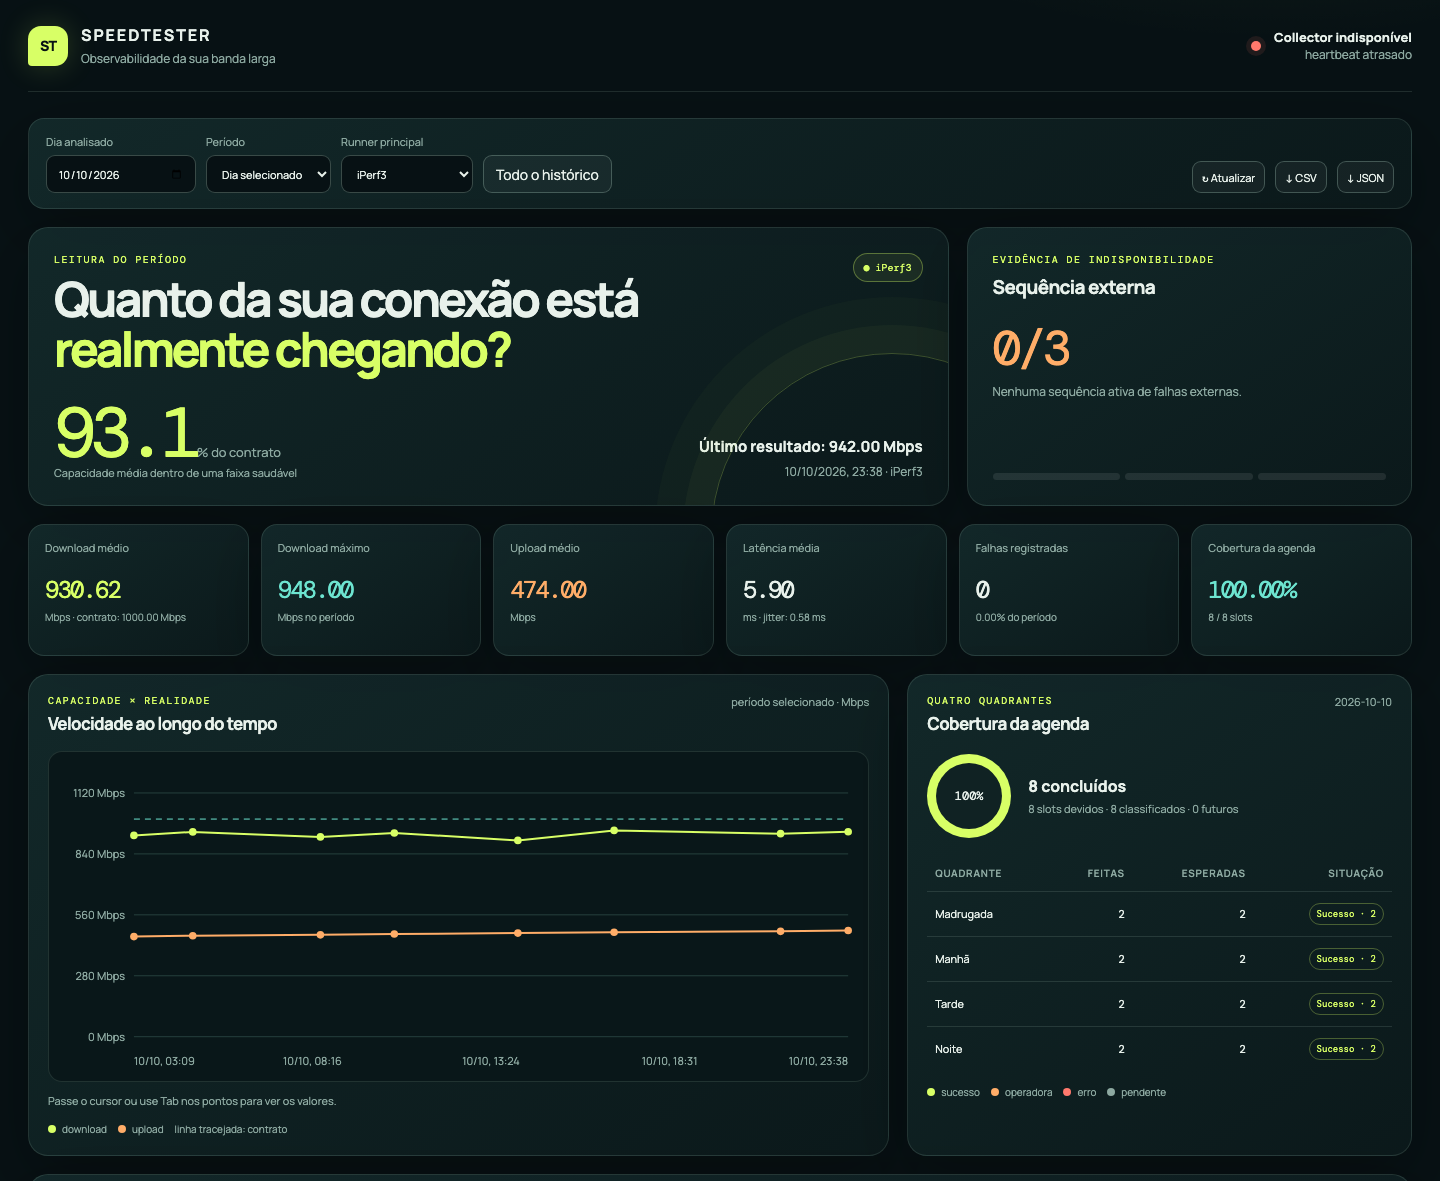
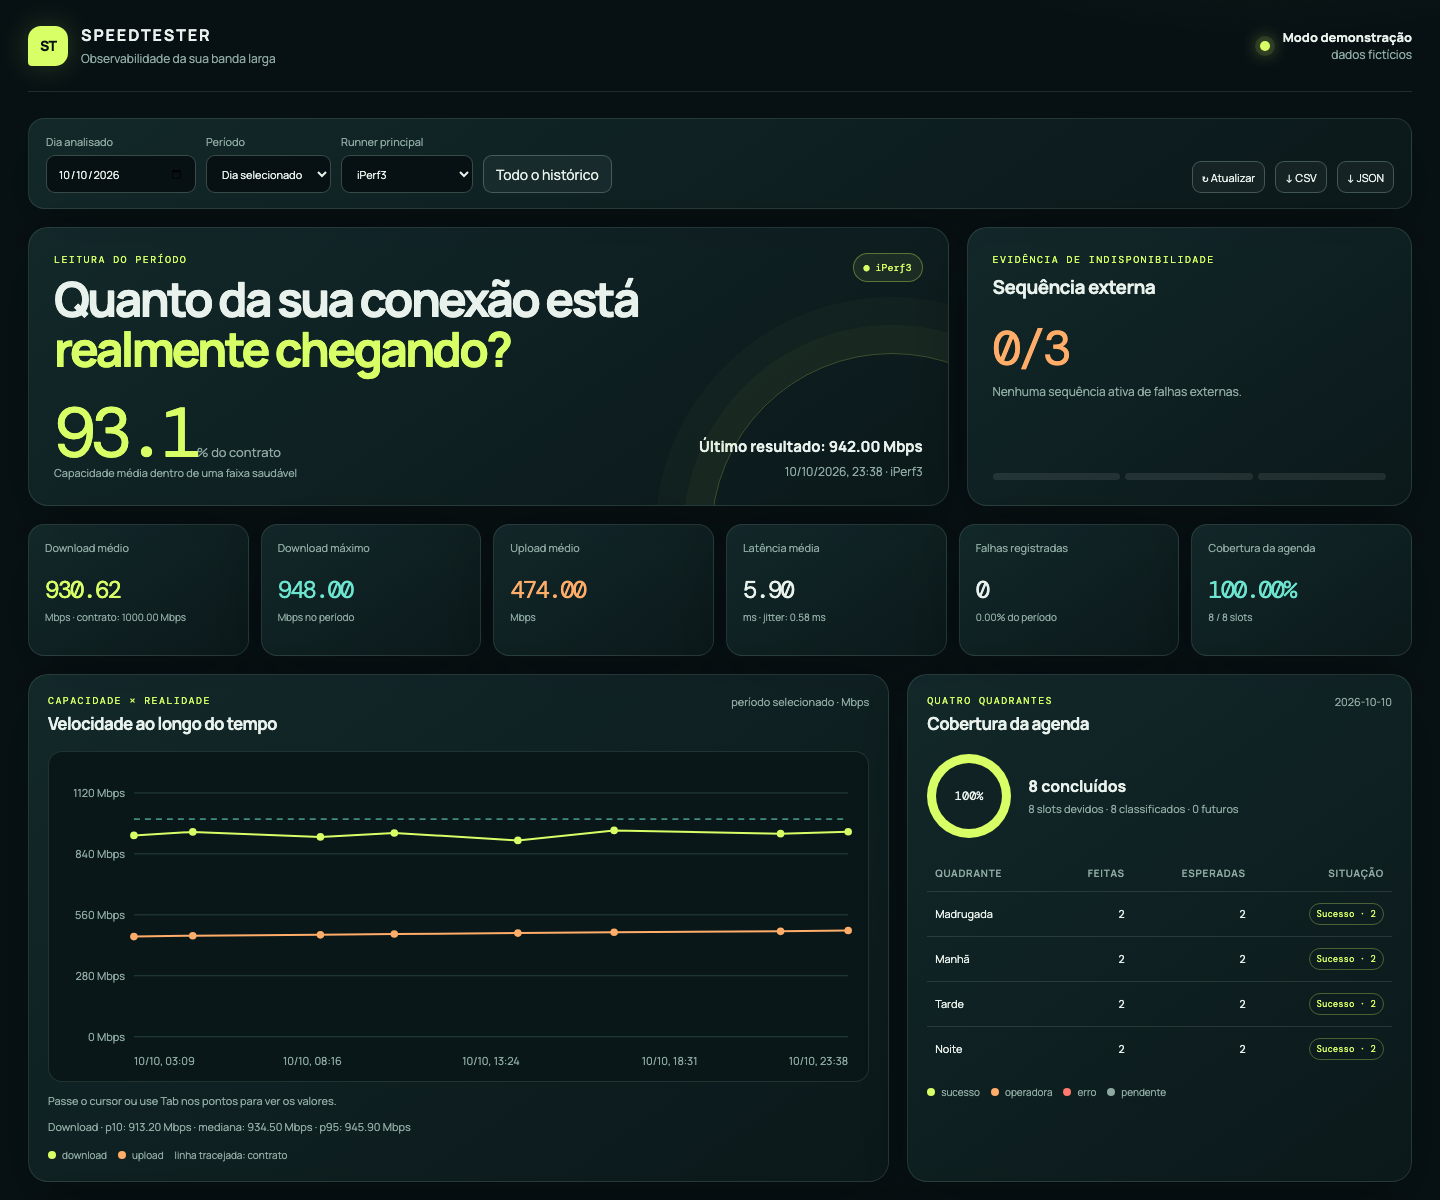
Fix initial database ownership and identify synthetic dashboard mode

diff --git a/app/dashboard/index.html b/app/dashboard/index.html
@@ -158,7 +158,7 @@
     function renderMeasurements() { const rows=visibleSamples().slice().sort((a,b)=>new Date(b.started_at)-new Date(a.started_at)); $('sampleCountNote').textContent=rows.length+' carregados · até 50 exibidos · exportação completa'; $('measurementRows').innerHTML=rows.slice(0,50).map((sample)=>{const [status,origin]=sampleStatus(sample),result=sample.is_failure?(statusLabels[status]||status)+(origin?' · '+origin:''):'Sucesso'; return '<tr><td>'+esc(localDateTime(sample.started_at))+'</td><td>'+esc(runnerLabels[sample.runner]||sample.runner||'Legado')+'</td><td>'+esc(labels[sample.quadrant]||sample.quadrant||'—')+'</td><td class="num '+(sample.is_failure?'muted':'value-lime')+'">'+fmt(sample.download_mbps,' Mbps')+'</td><td class="num '+(sample.is_failure?'muted':'value-orange')+'">'+fmt(sample.upload_mbps,' Mbps')+'</td><td class="num">'+fmt(sample.ping_ms,' ms')+'</td><td><span class="status-chip '+statusClass(status)+'">'+esc(result)+'</span></td></tr>'; }).join('')||'<tr><td colspan="7" class="empty">Nenhuma medição persistida para este filtro.</td></tr>'; }
     function renderComparison() { const days=state.comparison?.days||[], maxDownload=Math.max(...days.map((day)=>Number(day.download_avg_mbps)||0),1); $('comparisonNote').textContent=state.comparison?(state.comparison.from+' → '+state.comparison.to):'últimos 7 dias'; $('comparisonRows').innerHTML=days.map((day)=>{const width=day.download_avg_mbps==null?0:Math.min(100,Number(day.download_avg_mbps)/maxDownload*100); const coverage=day.coverage_pct==null?'—':fmt(day.coverage_pct,'%'); const delivery=day.delivery_pct==null?'sem dados':fmt(day.delivery_pct,'%'); return '<tr><td class="history-date">'+esc(day.date)+'</td><td class="value-lime">'+fmt(day.download_avg_mbps,' Mbps')+'</td><td class="history-bar-cell"><div class="history-bar-track" title="'+esc(delivery)+' do contrato"><div class="history-bar'+(day.download_avg_mbps==null?' empty':'')+'" style="width:'+width+'%"></div></div></td><td class="num">'+esc(coverage)+'</td><td class="num">'+(day.failure_count??0)+'</td></tr>'; }).join('')||'<tr><td colspan="5" class="empty">Nenhum dia no intervalo.</td></tr>'; }
     function renderAlerts() { const alerts=state.alerts||[]; $('alertsNote').textContent=alerts.length?alerts.length+' registro(s)':'sem alertas'; $('alertList').innerHTML=alerts.slice(0,20).map((alert)=>'<div class="alert-item"><span class="alert-dot '+(alert.severity==='critical'?'critical':'')+'"></span><div><div class="alert-title">'+esc(alertLabels[alert.kind]||alert.kind)+'</div><div class="alert-meta">'+esc(localDateTime(alert.created_at))+' · '+esc(alert.delivered?'entregue':'registrado')+'</div><div class="alert-message">'+esc(alert.message)+'</div></div></div>').join('')||'<div class="empty">Nenhum alerta acionável registrado.</div>'; }
-    function renderHealth() { const collector=state.health?.collector; if(!collector){setStatus('Conectando…','sincronizando dados');return;} if(collector.status==='ok'){ const age=collector.age_seconds==null?'heartbeat recebido':'heartbeat há '+Math.round(collector.age_seconds)+'s'; setStatus('Collector online',age,'ok'); } else { setStatus('Collector indisponível',collector.status==='unknown'?'heartbeat ainda não registrado':'heartbeat atrasado','err'); } }
+    function renderHealth() { if(state.demo){setStatus('Modo demonstração','dados fictícios','ok');return;} const collector=state.health?.collector; if(!collector){setStatus('Conectando…','sincronizando dados');return;} if(collector.status==='ok'){ const age=collector.age_seconds==null?'heartbeat recebido':'heartbeat há '+Math.round(collector.age_seconds)+'s'; setStatus('Collector online',age,'ok'); } else { setStatus('Collector indisponível',collector.status==='unknown'?'heartbeat ainda não registrado':'heartbeat atrasado','err'); } }
     function updateChart() { SpeedTesterCharts.renderSpeed($('chart'),state.series.rows,state.summary?.bandwidth_contracted_mbps,state.timezone); SpeedTesterCharts.renderDistribution($('distributionChart'),state.summary?.quadrants||{}); }
     function render() { const summary=state.summary||{}; renderSummary(summary); renderStreak(); renderSlots(); renderTimeline(); renderMeasurements(); renderComparison(); renderAlerts(); renderHealth(); updateChart(); }
     async function refresh() {
@@ -178,7 +178,7 @@
     $('powerForm').addEventListener('submit',async(event)=>{event.preventDefault();const start=new Date($('powerStart').value),end=new Date($('powerEnd').value);if(Number.isNaN(start.valueOf())||Number.isNaN(end.valueOf())||end<=start)return notify('Informe um intervalo de energia válido',true);try{const headers={'Content-Type':'application/json'};if($('adminToken').value)headers['X-Admin-Token']=$('adminToken').value;await api('/api/availability-events',{method:'POST',headers,body:JSON.stringify({started_at:start.toISOString(),ended_at:end.toISOString(),event_type:'POWER_OUTAGE',source:'manual',confidence:'high',note:'Falta de energia informada manualmente'})});notify('Falta de energia registrada');event.target.reset();await refresh();}catch(error){notify(error.message,true);}});
     $('classifyForm').addEventListener('submit',async(event)=>{event.preventDefault();const slot=$('classifySlot').value;if(!slot)return notify('Não há slot classificável',true);try{const headers={'Content-Type':'application/json'};if($('classifyToken').value)headers['X-Admin-Token']=$('classifyToken').value;await api('/api/slots/'+encodeURIComponent(slot)+'/classify',{method:'POST',headers,body:JSON.stringify({status:$('classifyStatus').value,note:$('classifyNote').value})});notify('Classificação salva');$('classifyNote').value='';await refresh();}catch(error){notify(error.message,true);}});
     $('resetBtn').addEventListener('click',async()=>{if(!window.confirm('Limpar todo o histórico de medições, slots e eventos?'))return;try{const headers={};if($('adminToken').value)headers['X-Admin-Token']=$('adminToken').value;const result=await api('/api/reset',{method:'POST',headers});notify('Histórico limpo: '+result.reset_rows+' registros');await refresh();}catch(error){notify(error.message,true);}});
-    api('/api/config').then(config=>{state.timezone=config.timezone;$('dayFilter').value=config.local_date;return refresh();}).catch(error=>notify(error.message,true)); window.setInterval(refresh,POLL_MS);
+    api('/api/config').then(config=>{state.timezone=config.timezone;state.demo=Boolean(config.demo);$('dayFilter').value=config.local_date;return refresh();}).catch(error=>notify(error.message,true)); window.setInterval(refresh,POLL_MS);
   </script>
 </body>
 </html>

diff --git a/app/api/server.py b/app/api/server.py
@@ -203,7 +203,8 @@ def api_attempts(slot_id: int = Query(..., ge=1)):
 def api_config():
     """Return only public display settings, never credentials or hostnames."""
     return {"timezone": settings.timezone, "local_date": local_date_now(settings.timezone).isoformat(),
-            "version": "0.2.0", "bandwidth_contracted_mbps": settings.bandwidth_contracted_mbps}
+            "version": "0.2.0", "bandwidth_contracted_mbps": settings.bandwidth_contracted_mbps,
+            "demo": (store.latest_heartbeat("collector") or {}).get("metadata", {}).get("demo", False)}
 
 
 @app.get("/api/series")
